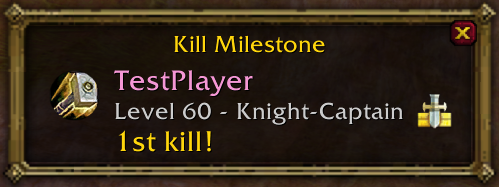
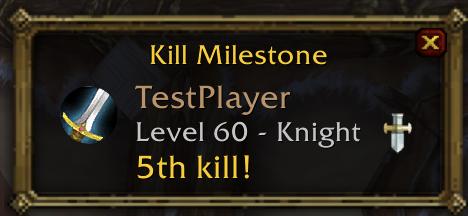
Readme and screenshots

diff --git a/README.md b/README.md
@@ -1,48 +1,44 @@
-
-# !!! Version 1.0 Release Candiate. Only for testing purposes !!!
-This is a release candiate version meaning it has been tested and should be mostly bug-free. It can still have bugs, though! Please report them to Severussnipe or Hkfarmer \<Redridge Police\>.
-
 # PvP Stats (Classic)
-PvP Stats tracks your PvP kills and provides detailed statistics and customizable notifications. Whether you're ganking in the open world or dominating BGs, this addon greatly enhances your PvP experience!
+PvP Stats tracks your PvP history and provides detailed statistics and customizable notifications. Whether you're ganking in the open world or dominating BGs, this addon greatly enhances your PvP experience!
 
 ### Key Features:
 - **Kill Tracking**: Details of enemy players kills are stored: name, level, class, race, guild and PvP rank
 - **Kill Statistics**: View your most killed classes, races, zones, and individual players
 - **Kills List**: See all your kills at a glance and filter them by player name, class, race, level, PvP rank or zone
+- **Death and Assists Tracking**: See who killed you when, where and who assisted
 - **Party Chat Announcements**: Customizable messages for announcing kills, kill streaks and achievements
 - **Kill Streaks & Multi-Kills**: Visual and acoustic notifications for kill streaks and multi-kills
 - **Kill Milestones**: Notifications when you kill players for the 1st, 5th, 10th, ... time
 - **Mouseover Tooltip**: Quickly see how often you killed players when hovering your mouse over them
 - **Battleground Mode**: Party chat announcements are automatically disabled when you join a BG to prevent spam
-- **Fully Customizable**: Set custom announcement messages and kill streak/milestone notification thresholds
+- **Fully Customizable**: Set custom announcement messages, kill streak/milestone notification thresholds and disable/enable any feature as you like it
 - **And much more...**
 
 
 ## Screenshots
 ### Customizable Party announce messages:
-Kills:
+Kills, Kill streaks and Multi-kills:
 
-<img src="PvPStatsClassic/img/party_kill_announcement.png" width="500">
-
-Kill streaks / multi-kills:
-
-<img src="PvPStatsClassic/img/kill_streak_multi_kill_announcement.png" width="500">
+<img src="PvPStatsClassic/img/party_kill_announce_with_killstreak.png" width="650">
 
 
-<img src="PvPStatsClassic/img/kill_streak_ended.png" width="500">
+<img src="PvPStatsClassic/img/kill_streak_ended.png" width="450">
 
-<img src="PvPStatsClassic/img/personal_best_multi_kill.png" width="500">
+<img src="PvPStatsClassic/img/personal_best_multi_kill.png" width="430">
 
 ### Kill milestones:
 
-<img src="PvPStatsClassic/img/kill_milestone_1.png" width="180">
-<img src="PvPStatsClassic/img/kill_milestone_3.png" width="190">
-<img src="PvPStatsClassic/img/kill_milestone_2.png" width="200">
+<img src="PvPStatsClassic/img/kill_milestone_1.png" width="170">
+<img src="PvPStatsClassic/img/kill_milestone_2.png" width="197">
+<img src="PvPStatsClassic/img/kill_milestone_3.png" width="194">
 
-### Mouseover tooltips:
+### Customizable Mouseover tooltips:
 
-<img src="PvPStatsClassic/img/alive_wow_standard_tooltip.png" width="220">
-<img src="PvPStatsClassic/img/corpse_tooltip.png" width="180">
+<img src="PvPStatsClassic/img/corpse_tooltip_simple.png" width="165">
+<img src="PvPStatsClassic/img/corpse_tooltip_detailed.png" width="220">
+
+<img src="PvPStatsClassic/img/player_tooltip_simple.png" width="230">
+<img src="PvPStatsClassic/img/player_tooltip_detailed.png" width="231">
 
 
 ### Kills List:
@@ -51,12 +47,12 @@ Kill streaks / multi-kills:
 
 ### Statistics:
 
-<img src="PvPStatsClassic/img/stats_1.png" width="800">
-<img src="PvPStatsClassic/img/stats_2.png" width="800">
+<img src="PvPStatsClassic/img/statistics_1.png" width="800">
+<img src="PvPStatsClassic/img/statistics_2.png" width="800">
 
 ### Configuration / Customization:
 
-<img src="PvPStatsClassic/img/config_announcements.png" width="600">
+<img src="PvPStatsClassic/img/config_general.png" width="600">
 
 <img src="PvPStatsClassic/img/config_messages.png" width="600">
 
